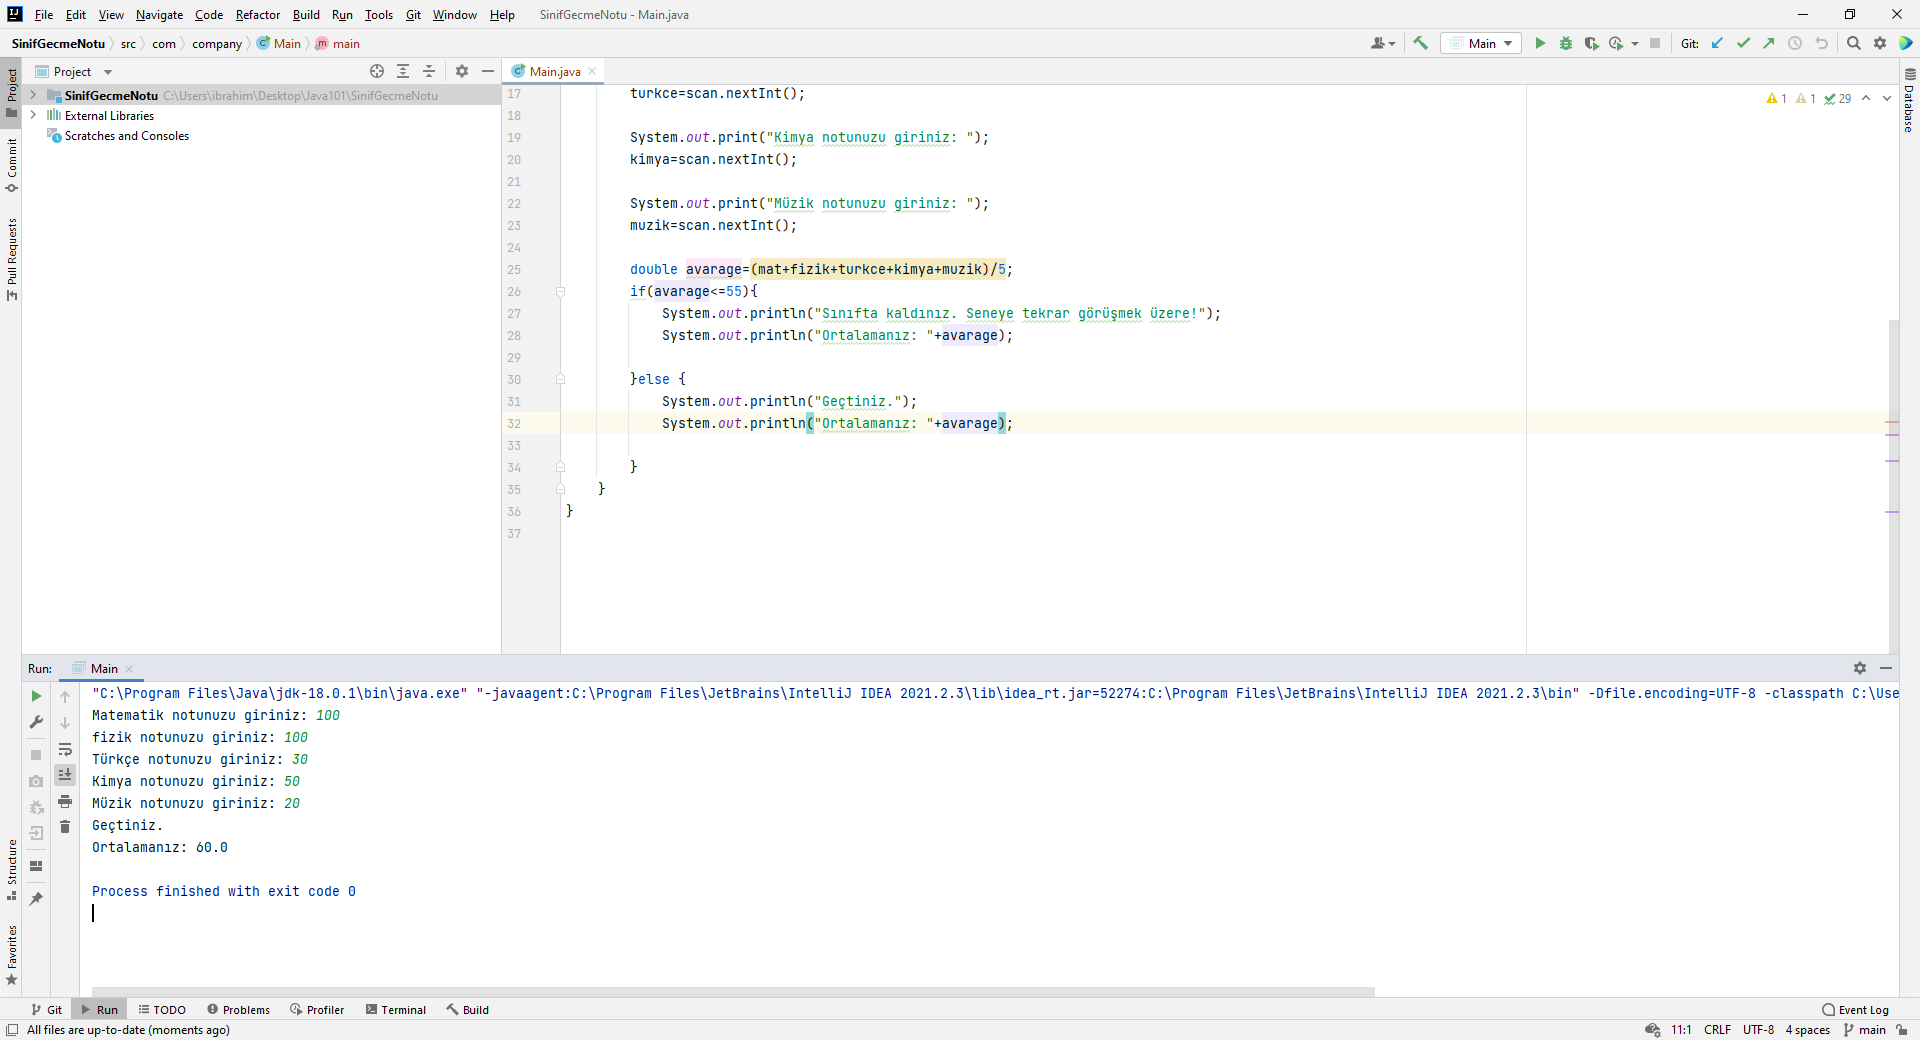
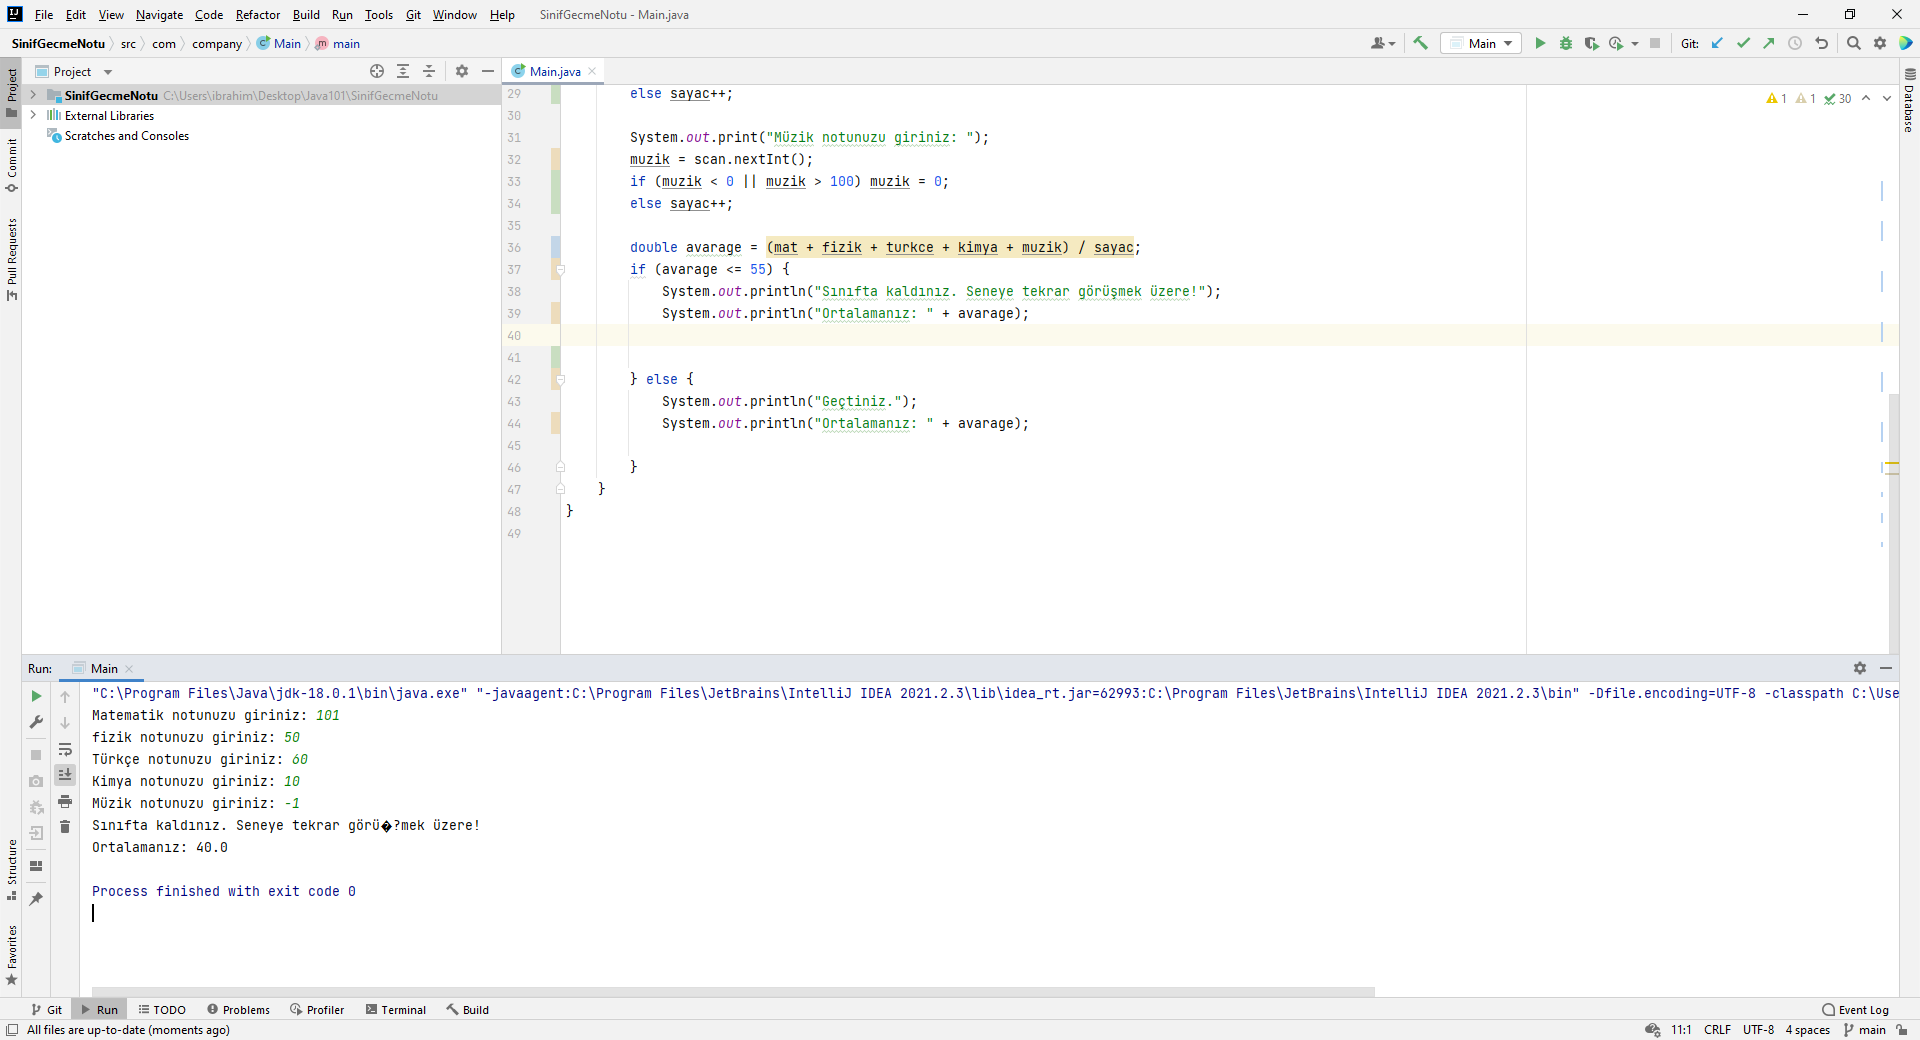
Sinif Gecme Notu

diff --git a/SinifGecmeNotu/src/com/company/Main.java b/SinifGecmeNotu/src/com/company/Main.java
@@ -5,31 +5,43 @@ import java.util.Scanner;
 public class Main {
 
     public static void main(String[] args) {
-        Scanner scan=new Scanner(System.in);
-        int mat,fizik,turkce,kimya,muzik;
+        Scanner scan = new Scanner(System.in);
+        int mat, fizik, turkce, kimya, muzik, sayac;
+        sayac = 0;
         System.out.print("Matematik notunuzu giriniz: ");
-        mat=scan.nextInt();
+        mat = scan.nextInt();
+        if (mat < 0 || mat > 100) mat = 0;
+        else sayac++;
 
         System.out.print("fizik notunuzu giriniz: ");
-        fizik=scan.nextInt();
+        fizik = scan.nextInt();
+        if (fizik < 0 || fizik > 100) fizik = 0;
+        else sayac++;
 
         System.out.print("Türkçe notunuzu giriniz: ");
-        turkce=scan.nextInt();
+        turkce = scan.nextInt();
+        if (turkce < 0 || turkce > 100) turkce = 0;
+        else sayac++;
 
         System.out.print("Kimya notunuzu giriniz: ");
-        kimya=scan.nextInt();
+        kimya = scan.nextInt();
+        if (kimya < 0 || kimya > 100) kimya = 0;
+        else sayac++;
 
         System.out.print("Müzik notunuzu giriniz: ");
-        muzik=scan.nextInt();
+        muzik = scan.nextInt();
+        if (muzik < 0 || muzik > 100) muzik = 0;
+        else sayac++;
 
-        double avarage=(mat+fizik+turkce+kimya+muzik)/5;
-        if(avarage<=55){
+        double avarage = (mat + fizik + turkce + kimya + muzik) / sayac;
+        if (avarage <= 55) {
             System.out.println("Sınıfta kaldınız. Seneye tekrar görüşmek üzere!");
-            System.out.println("Ortalamanız: "+avarage);
+            System.out.println("Ortalamanız: " + avarage);
 
-        }else {
+
+        } else {
             System.out.println("Geçtiniz.");
-            System.out.println("Ortalamanız: "+avarage);
+            System.out.println("Ortalamanız: " + avarage);
 
         }
     }
